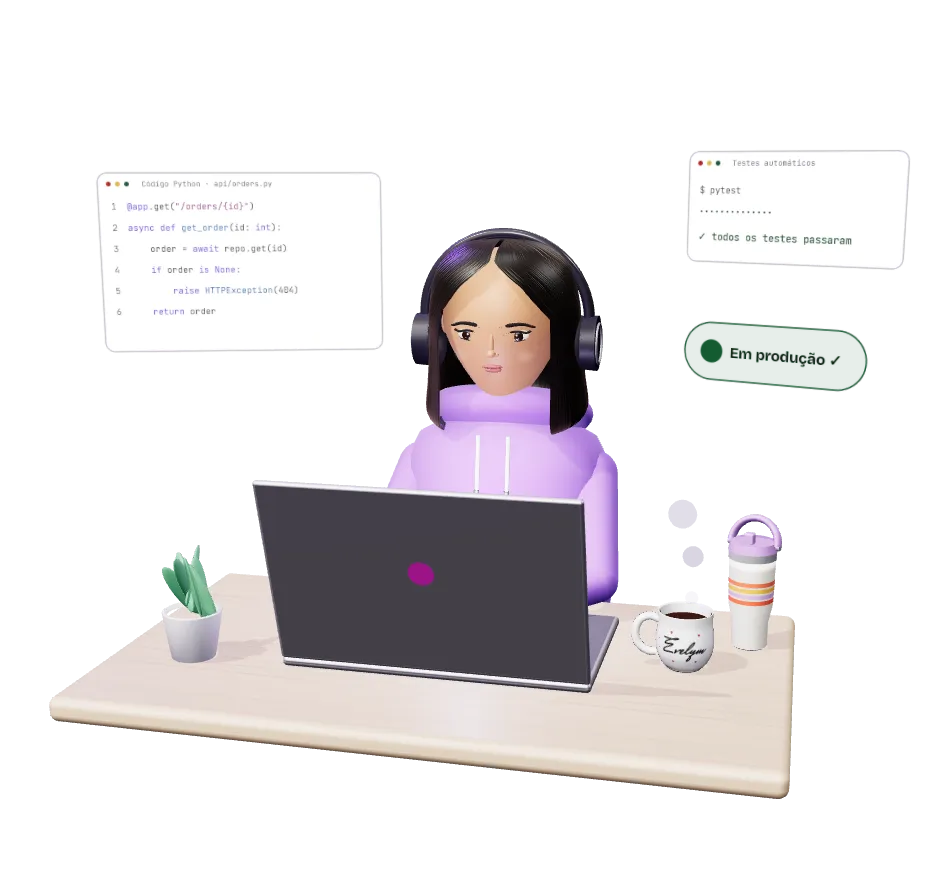
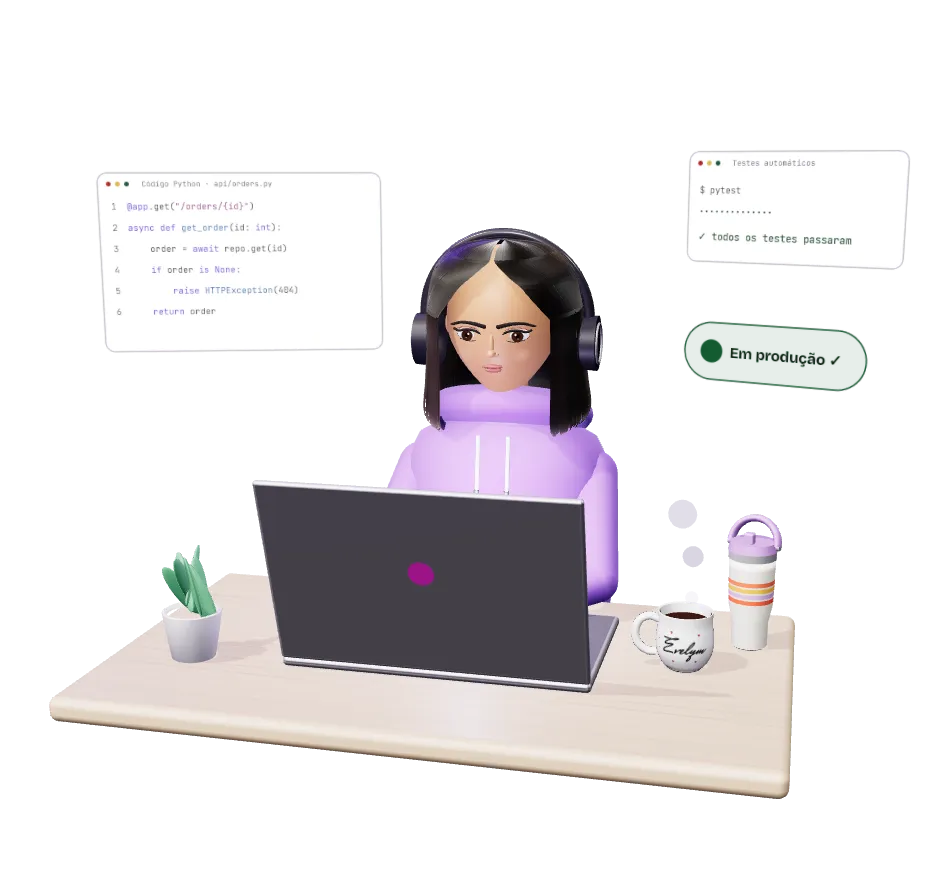
feat: afina o rosto e dá olhos, pele e cabelo de jogo à personagem

Changed region(s): [[0.4283, 0.2793, 0.6118, 0.4655], [0.5812, 0.4345, 0.6424, 0.4966], [0.4283, 0.4034, 0.4589, 0.4966]]

diff --git a/components/scene/hero-scene.ts b/components/scene/hero-scene.ts
@@ -318,8 +318,26 @@ export async function createHeroScene(
 
   /* ── Materiais ─────────────────────────────────────────────────────── */
   const P = (o: MeshPhysicalMaterialParameters) => new MeshPhysicalMaterial(o);
+  // Poros: um relevo fino e irregular, para a pele não parecer plástico.
+  const pores = tex(
+    256,
+    256,
+    (g, w, h) => {
+      g.fillStyle = "#808080";
+      g.fillRect(0, 0, w, h);
+      for (let i = 0; i < 2600; i++) {
+        g.fillStyle = `rgba(${rnd() < 0.5 ? "60,60,60" : "190,190,190"},0.35)`;
+        g.beginPath();
+        g.arc(rnd() * w, rnd() * h, 0.6 + rnd() * 1.2, 0, PI * 2);
+        g.fill();
+      }
+    },
+    [6, 6]
+  );
   const mSkin = P({
     color: 0xc4875f,
+    bumpMap: pores,
+    bumpScale: 0.12,
     roughness: 0.5,
     sheen: 0.4,
     sheenColor: 0xffcfa8,
@@ -336,11 +354,80 @@ export async function createHeroScene(
     bumpMap: strands,
     bumpScale: 0.6,
     side: DoubleSide,
+    // brilho em faixa, atravessando os fios, como em cabelo de verdade
+    anisotropy: 0.5,
+    anisotropyRotation: PI / 2,
+    envMapIntensity: 0.55,
+  });
+  // Mechas soltas: uma camada por fora com fios recortados (pontas irregulares), que quebra o contorno liso.
+  const strandAlpha = tex(512, 256, (g, w, h) => {
+    g.fillStyle = "#000";
+    g.fillRect(0, 0, w, h);
+    for (let i = 0; i < 900; i++) {
+      const x = rnd() * w;
+      const top = rnd() * h * 0.5;
+      const bottom = h * (0.55 + rnd() * 0.45);
+      g.strokeStyle = `rgba(255,255,255,${0.5 + rnd() * 0.5})`;
+      g.lineWidth = 0.8 + rnd() * 1.6;
+      g.beginPath();
+      g.moveTo(x, top);
+      g.bezierCurveTo(
+        x + 3,
+        top + (bottom - top) * 0.4,
+        x - 3,
+        top + (bottom - top) * 0.7,
+        x + 1,
+        bottom
+      );
+      g.stroke();
+    }
+  });
+  const mHairStrands = P({
+    color: 0x15100e,
+    roughness: 0.42,
+    sheen: 1,
+    sheenRoughness: 0.32,
+    sheenColor: 0x6b5852,
+    alphaMap: strandAlpha,
+    alphaTest: 0.45,
+    side: DoubleSide,
+    anisotropy: 0.5,
+    anisotropyRotation: PI / 2,
+    envMapIntensity: 0.55,
   });
   const mBrow = new MeshStandardMaterial({ color: 0x1c1210, roughness: 0.8 });
   const mSclera = P({ color: 0xf5f0ec, roughness: 0.15, clearcoat: 1 });
-  const mIris = P({ color: 0x2c1a10, roughness: 0.18, clearcoat: 1 });
-  const mPupil = new MeshBasicMaterial({ color: 0x0b0707 });
+  const irisMap = tex(256, 256, (g, w) => {
+    const c = w / 2;
+    const base = g.createRadialGradient(c, c, 0, c, c, c);
+    base.addColorStop(0, "#100804");
+    base.addColorStop(0.3, "#25140a");
+    base.addColorStop(0.62, "#432612");
+    base.addColorStop(0.86, "#2b180c");
+    base.addColorStop(0.95, "#100804");
+    base.addColorStop(1, "rgba(28,15,8,0)");
+    g.fillStyle = base;
+    g.fillRect(0, 0, w, w);
+    // raios da íris
+    for (let i = 0; i < 160; i++) {
+      const a = rnd() * PI * 2;
+      const r0 = c * (0.3 + rnd() * 0.1);
+      const r1 = c * (0.7 + rnd() * 0.2);
+      g.strokeStyle = `rgba(${rnd() < 0.5 ? "140,88,44" : "26,13,6"},${0.18 + rnd() * 0.22})`;
+      g.lineWidth = 1 + rnd() * 1.5;
+      g.beginPath();
+      g.moveTo(c + Math.cos(a) * r0, c + Math.sin(a) * r0);
+      g.lineTo(c + Math.cos(a) * r1, c + Math.sin(a) * r1);
+      g.stroke();
+    }
+    // pupila
+    g.fillStyle = "#070404";
+    g.beginPath();
+    g.arc(c, c, c * 0.36, 0, PI * 2);
+    g.fill();
+  });
+  irisMap.colorSpace = SRGBColorSpace;
+  const mIris = P({ map: irisMap, roughness: 0.15, clearcoat: 1, transparent: true });
   const mGlint = new MeshBasicMaterial({ color: 0xffffff });
   const mLash = new MeshStandardMaterial({ color: 0x120b0d, roughness: 0.6 });
   const mHoodie = P({
@@ -711,22 +798,22 @@ export async function createHeroScene(
   head.position.set(0, 1.0, Z + 0.06);
   head.rotation.x = 0.15;
   root.add(head);
-  // Rosto em V (fotos da dona, 2026-11-20): da linha dos olhos para baixo, a cabeça afina até um queixo estreito.
-  const skull = new SphereGeometry(0.25, 64, 48);
+  // Rosto fino e alongado, com queixo pequeno (pedido da dona em 2026-11-22, no estilo de personagem de animação):
+  // as maçãs do rosto mantêm a largura e, abaixo delas, a cabeça afina depressa até um queixo curto, sem emenda.
+  const skull = new SphereGeometry(0.25, 72, 56);
   const sp = skull.attributes.position;
-  // O queixo sai da própria cabeça, alongada para baixo e afinando até a ponta, sem emenda.
   for (let i = 0; i < sp.count; i++) {
     const y = sp.getY(i);
     const t = Math.min(1, Math.max(0, -y / 0.25));
-    sp.setX(i, sp.getX(i) * (1 - 0.36 * t ** 1.3));
-    sp.setY(i, y - 0.06 * t ** 2.2);
-    if (sp.getZ(i) > 0) sp.setZ(i, sp.getZ(i) * (1 + 0.06 * t));
+    sp.setX(i, sp.getX(i) * (1 - 0.42 * t ** 1.7));
+    sp.setY(i, y - 0.018 * t ** 3);
+    if (sp.getZ(i) > 0) sp.setZ(i, sp.getZ(i) * (1 + 0.05 * t));
   }
   skull.computeVertexNormals();
-  mesh(skull, mSkin, head).scale.set(0.9, 1.04, 0.95);
+  mesh(skull, mSkin, head).scale.set(0.84, 1.08, 0.95);
   for (const s of [-1, 1]) {
     const ear = mesh(new SphereGeometry(0.04, 16, 12), mSkin, head);
-    ear.position.set(0.222 * s, -0.02, 0);
+    ear.position.set(0.207 * s, -0.02, 0);
     ear.scale.set(0.4, 1, 0.75);
   }
   function stroke(pts: number[][], r: number, mat: Material, parent: Object3D) {
@@ -744,29 +831,52 @@ export async function createHeroScene(
     transparent: true,
     depthWrite: false,
   });
+  const eyeShadow = new MeshBasicMaterial({
+    map: tex(128, 64, (g, w, h) => {
+      const gr = g.createRadialGradient(w / 2, h / 2, 0, w / 2, h / 2, w / 2);
+      gr.addColorStop(0, "rgba(96,52,44,0.32)");
+      gr.addColorStop(1, "rgba(96,52,44,0)");
+      g.setTransform(1, 0, 0, h / w, 0, (h - (h * h) / w) / 2);
+      g.fillStyle = gr;
+      g.fillRect(0, 0, w, w);
+    }),
+    transparent: true,
+    depthWrite: false,
+  });
   // Olhos (foto da dona, 2026-11-20): amendoados, íris castanho-escura grande, pálpebra de cima cobrindo o alto da íris
   // (olhar relaxado) e sobrancelha grossa, reta e baixa. No grupo de cada olho, +x é o canto de fora (o esquerdo é
   // espelhado), e o grupo gira com a curva do rosto: a íris centrada no que se vê evita o olhar vesgo.
   const eyes = [-1, 1].map((s) => {
     const g = new Group();
-    g.position.set(0.083 * s, -0.004, 0.207);
-    g.rotation.y = 0.14 * s;
-    g.scale.set(1.14 * s, 1.14, 1.14); // espelha o lado esquerdo
+    g.position.set(0.079 * s, -0.002, 0.209);
+    g.rotation.y = 0.16 * s;
+    g.scale.set(1.3 * s, 1.3, 1.3); // espelha o lado esquerdo
     head.add(g);
     const eye = new Group();
     g.add(eye);
     mesh(new SphereGeometry(0.03, 32, 20), mSclera, eye, false).scale.set(1.3, 0.66, 0.4);
-    const iris = mesh(new SphereGeometry(0.0158, 28, 20), mIris, eye, false);
-    iris.position.set(0.0065, -0.002, 0.0094);
-    iris.scale.set(1, 1, 0.36);
-    const pupil = mesh(new SphereGeometry(0.0066, 20, 14), mPupil, eye, false);
-    pupil.position.set(0.0065, -0.002, 0.012);
-    pupil.scale.set(1, 1, 0.36);
+    // íris desenhada (raios âmbar, anel escuro na borda e a pupila) num disco logo à frente do branco do olho
+    const iris = mesh(new CircleGeometry(0.0162, 40), mIris, eye, false);
+    iris.position.set(0.0065, -0.002, 0.0126);
     mesh(new CircleGeometry(0.0034, 12), mGlint, eye, false).position.set(0.0015, 0.003, 0.015);
     mesh(new CircleGeometry(0.0015, 8), mGlint, eye, false).position.set(0.008, -0.008, 0.015);
     // pálpebra de cima: uma calota de pele sobre o olho, com a borda logo acima do centro da íris
     const upperLid = mesh(new SphereGeometry(0.031, 32, 16, 0, PI * 2, 0, 0.86), mSkin, eye, false);
     upperLid.scale.set(1.32, 0.68, 0.43);
+    // dobra da pálpebra e uma sombra suave entre a pálpebra e a sobrancelha, que dão profundidade ao olhar
+    stroke(
+      [
+        [-0.034, 0.012, 0.0115],
+        [-0.008, 0.0215, 0.0135],
+        [0.022, 0.02, 0.0125],
+        [0.042, 0.013, 0.009],
+      ],
+      0.0008,
+      mLipLine,
+      g
+    );
+    const lidShade = mesh(new PlaneGeometry(0.1, 0.036), eyeShadow, g, false);
+    lidShade.position.set(0.004, 0.02, 0.0108);
     // cílios na borda da pálpebra, com um gatinho curto no canto de fora, e a linha de baixo
     stroke(
       [
@@ -792,19 +902,19 @@ export async function createHeroScene(
     );
     // sobrancelha: grossa no começo (perto do nariz), quase reta, afinando para fora
     const browCurve = new CatmullRomCurve3([
-      new Vector3(-0.044, 0.027, 0.012),
-      new Vector3(-0.012, 0.035, 0.013),
-      new Vector3(0.022, 0.036, 0.011),
-      new Vector3(0.052, 0.026, 0.004),
+      new Vector3(-0.043, 0.025, 0.012),
+      new Vector3(-0.012, 0.032, 0.013),
+      new Vector3(0.022, 0.033, 0.011),
+      new Vector3(0.05, 0.024, 0.004),
     ]);
     for (let k = 0; k <= 14; k++) {
       const u = k / 14;
       const hair = mesh(new SphereGeometry(1, 12, 8), mBrow, g, false);
       hair.position.copy(browCurve.getPoint(u));
-      hair.scale.set(0.0085, 0.0075 - u * 0.0042, 0.003);
+      hair.scale.set(0.0082, 0.006 - u * 0.0033, 0.003);
     }
     const cheek = mesh(new PlaneGeometry(0.08, 0.06), blush, head, false);
-    cheek.position.set(0.112 * s, -0.078, 0.214);
+    cheek.position.set(0.1 * s, -0.075, 0.21);
     cheek.rotation.y = 0.42 * s;
     return eye;
   });
@@ -894,6 +1004,7 @@ export async function createHeroScene(
   hairGeo.setIndex(hairIndex);
   hairGeo.computeVertexNormals();
   mesh(hairGeo, mHair, head).scale.set(1, 1, 1.02);
+  mesh(hairGeo, mHairStrands, head, false).scale.set(1.035, 1.012, 1.06);
   // headphone: arco com acolchoado, hastes de metal, conchas com almofada e um LED
   mesh(new TorusGeometry(0.305, 0.02, 14, 64, PI), mPhones, head).position.set(0, 0, -0.03);
   const padding = mesh(new TorusGeometry(0.288, 0.016, 10, 48, PI * 0.5), mCushion, head);
